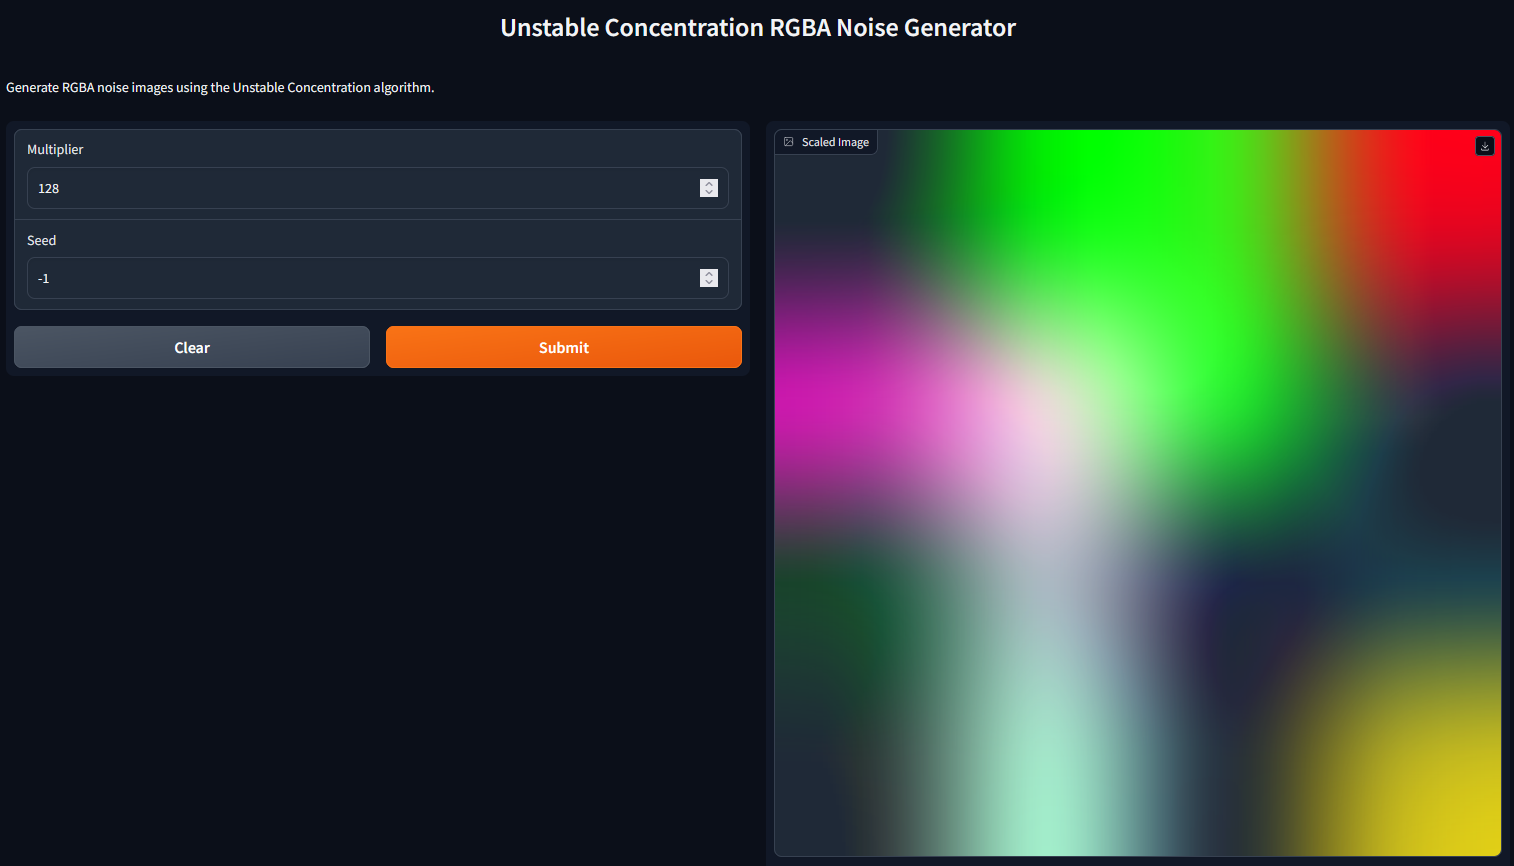
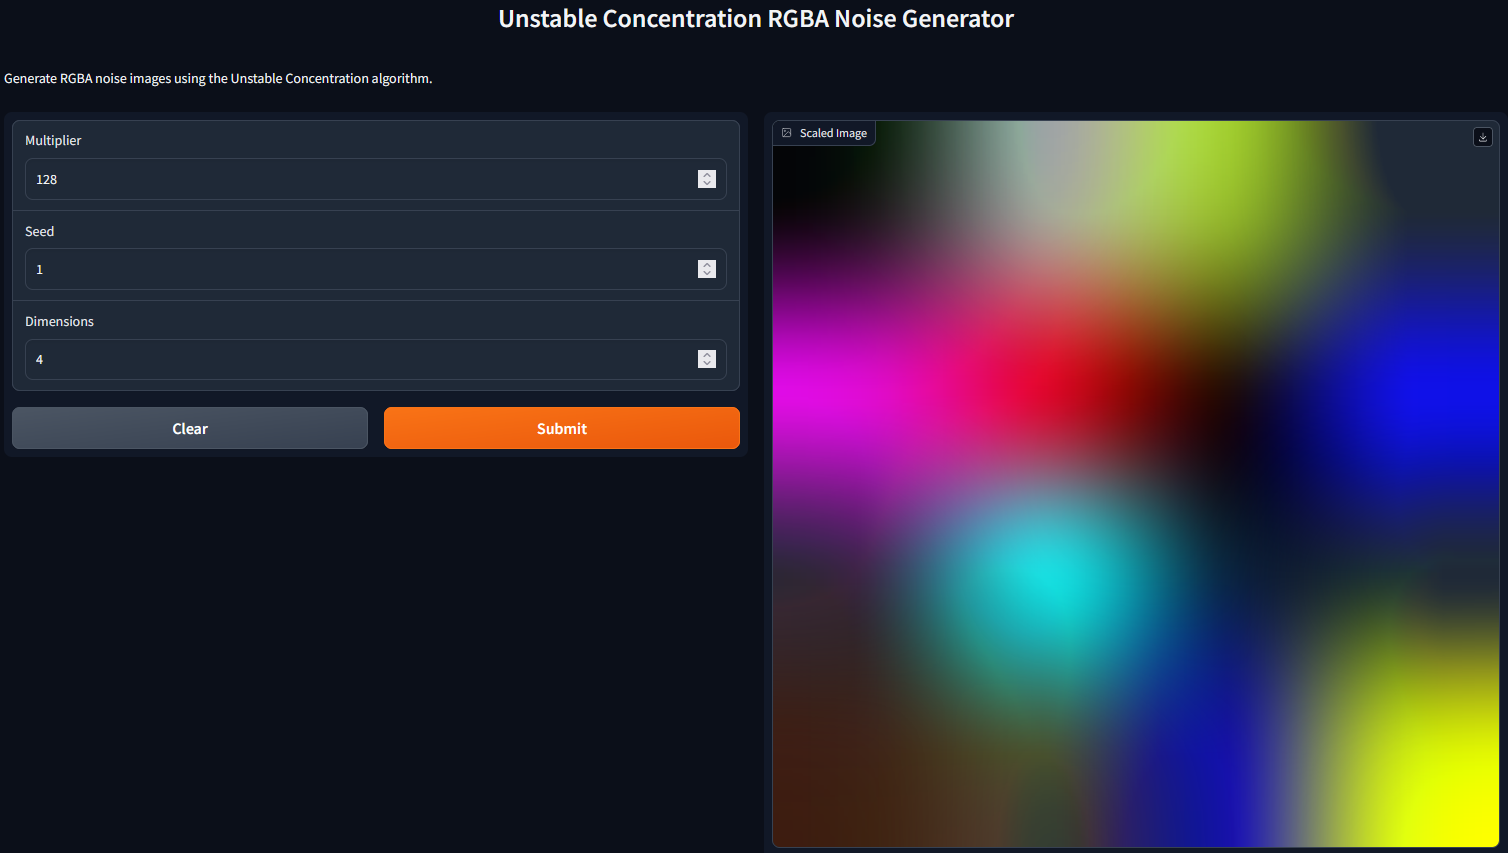
synchronized gradio outputs with cli outputs

diff --git a/unstableconcentration.py b/unstableconcentration.py
@@ -30,19 +30,19 @@ def process_image(outfilename='output', multiplier=128, seed=-1, dimensions=4):
         torch.manual_seed(seed)
 
     # Create a random input tensor of shape (dimensions*dimensions*32,)
-    x = torch.randn(dimensions*dimensions*32)
+    x = torch.randn(int(dimensions)*int(dimensions)*32)
 
     # Create an instance of the BitFeedForward class with the following parameters:
     # - input_dim: dimensions*dimensions*32
     # - hidden_dim: dimensions*dimensions*32
     # - num_layers: 4
-    ff = BitFeedForward(dimensions*dimensions*32, dimensions*dimensions*32, 4)
+    ff = BitFeedForward(int(dimensions)*int(dimensions)*32, int(dimensions)*int(dimensions)*32, 4)
 
     # Apply the BitFeedForward network to the input tensor x
     y = ff(x)
 
     # Reshape the output tensor y to (dimensions, dimensions, 32)
-    y = y.view(dimensions, dimensions, 32)
+    y = y.view(int(dimensions), int(dimensions), 32)
 
     # Convert the tensor to a PIL image
     image = Image.fromarray(y.detach().numpy().astype('uint8'), 'RGBA')
@@ -51,7 +51,7 @@ def process_image(outfilename='output', multiplier=128, seed=-1, dimensions=4):
     image.save(outfilename+ '_'+ str(seed) +'.png')
 
     # Scale up the image by a multiplier
-    new_size = (image.width * multiplier, image.height * multiplier)
+    new_size = (int(image.width * int(multiplier)), int(image.height * multiplier))
     scaled_image = image.resize(new_size)
 
     # Save the scaled image as a PNG file
